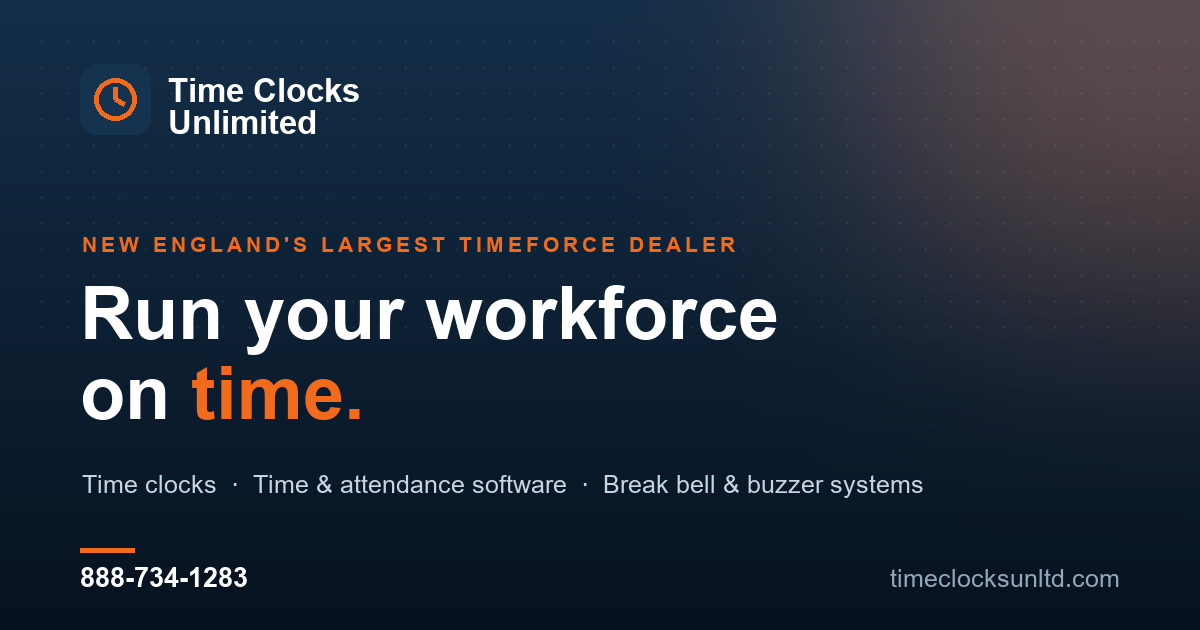
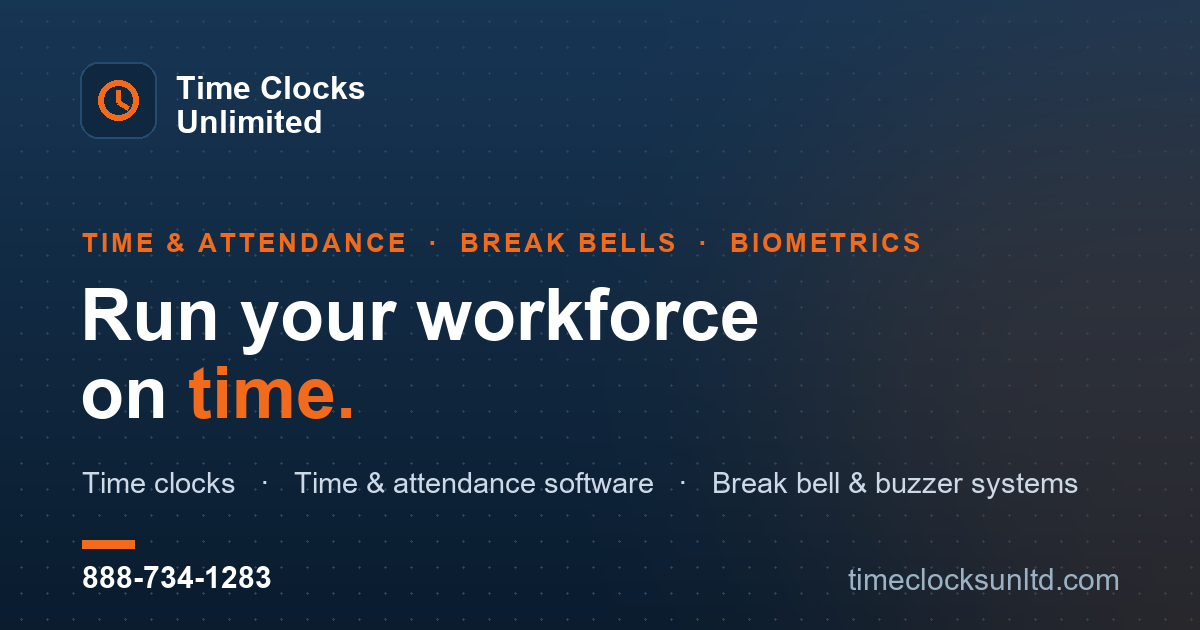
Owner-requested content changes: remove 'TimeForce dealer in New England' claim sitewide (meta/OG/schema/chips/metrics/footer/llms.txt/og-image); hide Wireless category from nav, homepage grid & footer; relabel hero CTA to Shop Time & Attendance; add Shop IP Paging hero button; brand strip: drop Qqe

diff --git a/index.html b/index.html
@@ -4,7 +4,7 @@
 <meta charset="UTF-8" />
 <meta name="viewport" content="width=device-width, initial-scale=1" />
 <title>Time Clocks Unlimited, LLC — Time &amp; Attendance, Break Bells &amp; Workforce Management</title>
-<meta name="description" content="New England's largest TimeForce dealer. Time clocks, time & attendance software, break bell & buzzer systems, biometric & facial-recognition solutions. Personal service direct from the owner. Call 888-734-1283." />
+<meta name="description" content="Time clocks, time & attendance software, break bell & buzzer systems, biometric & facial-recognition solutions. Personal service direct from the owner. Call 888-734-1283." />
 <meta name="robots" content="index, follow" />
 <meta name="theme-color" content="#0a1c2e" />
 <link rel="canonical" href="https://chrisp81588.github.io/timeclocks-unlimited-demo/" />
@@ -12,7 +12,7 @@
 <meta property="og:type" content="website" />
 <meta property="og:site_name" content="Time Clocks Unlimited, LLC" />
 <meta property="og:title" content="Time Clocks Unlimited — Time & Attendance, Time Clocks & Break Bell Systems" />
-<meta property="og:description" content="New England's largest TimeForce dealer. Time clocks, software, break bells & biometrics — with personal service direct from the owner." />
+<meta property="og:description" content="Time clocks, software, break bells & biometrics — with personal service direct from the owner." />
 <meta property="og:url" content="https://chrisp81588.github.io/timeclocks-unlimited-demo/" />
 <meta property="og:image" content="https://chrisp81588.github.io/timeclocks-unlimited-demo/og-image.png" />
 <meta property="og:image:width" content="1200" /><meta property="og:image:height" content="630" />
@@ -39,7 +39,7 @@
     "addressCountry": "US"
   },
   "areaServed": ["US", "CA"],
-  "description": "New England's largest TimeForce dealer — time clocks, time & attendance software, break bell & buzzer systems, biometric clocks, date stamps and supplies."
+  "description": "Time clocks, time & attendance software, break bell & buzzer systems, biometric clocks, date stamps and supplies — personal service direct from the owner."
 }
 </script>
 <script type="application/ld+json">
@@ -146,14 +146,15 @@
       <h1>Run your workforce on <span class="hl">time</span>, down to the second.</h1>
       <p class="lead">Time clocks · break bells &amp; buzzers · IP paging · biometric clocks · date stamps · ribbons &amp; supplies. New England's one-stop shop to keep payroll accurate and your floor on schedule — shipped fast, with service direct from the owner.</p>
       <div class="hero-cta">
-        <a href="category.html?cat=software" class="btn btn-primary">Shop Time Clocks <svg width="16" height="16" viewBox="0 0 24 24" fill="none" stroke="currentColor" stroke-width="2.2"><path d="M5 12h14M13 6l6 6-6 6"/></svg></a>
+        <a href="category.html?cat=software" class="btn btn-primary">Shop Time &amp; Attendance <svg width="16" height="16" viewBox="0 0 24 24" fill="none" stroke="currentColor" stroke-width="2.2"><path d="M5 12h14M13 6l6 6-6 6"/></svg></a>
         <a href="category.html?cat=time-clocks" class="btn btn-primary">Shop Amano Clocks <svg width="16" height="16" viewBox="0 0 24 24" fill="none" stroke="currentColor" stroke-width="2.2"><path d="M5 12h14M13 6l6 6-6 6"/></svg></a>
         <a href="category.html?cat=date-stamps" class="btn btn-primary">Shop Date Stamps <svg width="16" height="16" viewBox="0 0 24 24" fill="none" stroke="currentColor" stroke-width="2.2"><path d="M5 12h14M13 6l6 6-6 6"/></svg></a>
         <a href="category.html?cat=break-bells" class="btn btn-primary">Shop Break Bells <svg width="16" height="16" viewBox="0 0 24 24" fill="none" stroke="currentColor" stroke-width="2.2"><path d="M5 12h14M13 6l6 6-6 6"/></svg></a>
+        <a href="category.html?cat=netbell-pa" class="btn btn-primary">Shop IP Paging <svg width="16" height="16" viewBox="0 0 24 24" fill="none" stroke="currentColor" stroke-width="2.2"><path d="M5 12h14M13 6l6 6-6 6"/></svg></a>
         <a href="#contact" class="btn btn-ghost">Talk to a Specialist</a>
       </div>
       <div class="trust-chips">
-        <span class="chip"><svg width="15" height="15" viewBox="0 0 24 24" fill="none" stroke="currentColor" stroke-width="2.2"><path d="M20 6 9 17l-5-5"/></svg> Largest TimeForce dealer in New England</span>
+        <span class="chip"><svg width="15" height="15" viewBox="0 0 24 24" fill="none" stroke="currentColor" stroke-width="2.2"><path d="M20 6 9 17l-5-5"/></svg> We service what we sell</span>
         <span class="chip"><svg width="15" height="15" viewBox="0 0 24 24" fill="none" stroke="currentColor" stroke-width="2.2"><path d="M12 2 4 5v6c0 5 3.5 8 8 11 4.5-3 8-6 8-11V5z"/></svg> Biometric &amp; facial-recognition ready</span>
         <span class="chip"><svg width="15" height="15" viewBox="0 0 24 24" fill="none" stroke="currentColor" stroke-width="2.2"><path d="M3 12h4l3 8 4-16 3 8h4"/></svg> Integrates with HR &amp; Payroll</span>
       </div>
@@ -169,12 +170,12 @@
 <!-- Brand strip -->
 <div class="brands"><div class="wrap">
   <span class="lbl">Authorized dealer &amp; integration partner</span>
-  <span class="brand">Linortek</span><span class="brand">Amano</span><span class="brand">Widmer</span><span class="brand">uAttend</span><span class="brand">Qqest</span><span class="brand">Velocity</span>
+  <span class="brand">Linortek</span><span class="brand">Amano</span><span class="brand">Widmer</span><span class="brand">uAttend</span><span class="brand">ATS Applied Technical Systems</span>
 </div></div>
 
 <!-- Metrics -->
 <div class="metrics"><div class="wrap">
-  <div class="metric reveal"><b>#1</b><span>TimeForce dealer in New England</span></div>
+  <div class="metric reveal"><b>5</b><span>Brands sold &amp; serviced</span></div>
   <div class="metric reveal"><b>60<span class="u">+</span></b><span>Products in stock &amp; shipping</span></div>
   <div class="metric reveal"><b>US <span class="u">&amp;</span> CA</b><span>Countries we ship to</span></div>
   <div class="metric reveal"><b>100<span class="u">%</span></b><span>Owner-direct support line</span></div>
@@ -246,8 +247,8 @@
     </a>`;
   }).join('');
 
-  // categories grid
-  document.getElementById('catGrid').innerHTML = CATEGORIES.map(c=>`
+  // categories grid (hidden categories excluded)
+  document.getElementById('catGrid').innerHTML = CATEGORIES.filter(c=>!c.hidden).map(c=>`
     <a class="cat-card reveal" href="category.html?cat=${c.id}">
       <span class="ic" style="background:linear-gradient(135deg,${c.color},${c.color}cc)">${icon(c.icon,'#fff').replace('width="24" height="24"','width="26" height="26"')}</span>
       <h3>${c.name}</h3>

diff --git a/site.js b/site.js
@@ -53,8 +53,9 @@ function icon(name, stroke){
 }
 
 const PHONE = '888-734-1283';
-const navItems = (CATEGORIES||[]).map(c=>`<a href="category.html?cat=${c.id}">${c.nav||c.short||c.name}</a>`).join('');
-const mmItems = (CATEGORIES||[]).map(c=>`<a class="mm-link" href="category.html?cat=${c.id}">${c.name}</a>`).join('');
+const NAV_CATS = (CATEGORIES||[]).filter(c=>!c.hidden);
+const navItems = NAV_CATS.map(c=>`<a href="category.html?cat=${c.id}">${c.nav||c.short||c.name}</a>`).join('');
+const mmItems = NAV_CATS.map(c=>`<a class="mm-link" href="category.html?cat=${c.id}">${c.name}</a>`).join('');
 
 function logoMark(size){return `<span class="mark" aria-hidden="true"><svg width="${size||24}" height="${size||24}" viewBox="0 0 24 24" fill="none" stroke="#f26a1b" stroke-width="2.2" stroke-linecap="round"><circle cx="12" cy="12" r="9"/><path d="M12 7v5l3.5 2"/></svg></span>`;}
 
@@ -85,7 +86,7 @@ window.cardHTML = function(p){
 const HEADER = `
 <div class="utility"><div class="wrap">
   <div class="u-left">
-    <span class="u-badge"><span class="dot"></span> Authorized dealer · Amano · TimeForce · Linortek &amp; more</span>
+    <span class="u-badge"><span class="dot"></span> Authorized dealer · Amano · Widmer · Linortek &amp; more</span>
     <span class="hide-sm" style="color:#cbd5e1;white-space:nowrap">We ship UPS to the US &amp; Canada</span>
   </div>
   <div class="u-right">
@@ -133,13 +134,13 @@ const FOOTER = `
   <div class="foot-grid">
     <div class="foot-brand">
       <a class="logo" href="index.html">${logoMark(22)}<span>Time Clocks Unlimited</span></a>
-      <p>New England's largest TimeForce dealer — time &amp; attendance systems, break bells, biometrics and the personal service to back them.</p>
+      <p>Time &amp; attendance systems, break bells, biometrics and the personal service to back them — family-run and owner-direct.</p>
       <div class="socials">
         <a href="#" aria-label="Facebook"><svg width="18" height="18" viewBox="0 0 24 24" fill="currentColor"><path d="M14 9h3V6h-3c-2 0-3 1.3-3 3v2H8v3h3v7h3v-7h2.5l.5-3H14V9.3c0-.2.2-.3.5-.3z"/></svg></a>
         <a href="#" aria-label="Instagram"><svg width="18" height="18" viewBox="0 0 24 24" fill="none" stroke="currentColor" stroke-width="2"><rect x="3" y="3" width="18" height="18" rx="5"/><circle cx="12" cy="12" r="4"/><circle cx="17.5" cy="6.5" r="1" fill="currentColor" stroke="none"/></svg></a>
       </div>
     </div>
-    <div><h5>Categories</h5><ul>${(CATEGORIES||[]).map(c=>`<li><a href="category.html?cat=${c.id}">${c.name}</a></li>`).join('')}</ul></div>
+    <div><h5>Categories</h5><ul>${NAV_CATS.map(c=>`<li><a href="category.html?cat=${c.id}">${c.name}</a></li>`).join('')}</ul></div>
     <div><h5>Company</h5><ul>
       <li><a href="index.html#why">About Us</a></li><li><a href="index.html#contact">Contact Us</a></li>
       <li><a href="shipping.html">Shipping &amp; Deliveries</a></li><li><a href="returns.html">Returns &amp; Exchanges</a></li><li><a href="faq.html">Site Help / FAQ</a></li>
@@ -150,7 +151,7 @@ const FOOTER = `
       <a href="mailto:info@timeclocksunltd.com">${icon('mail')} info@timeclocksunltd.com</a>
     </div></div>
   </div>
-  <div class="copy"><span>© 2026 Time Clocks Unlimited, LLC. All rights reserved.</span><span>New England's largest TimeForce dealer</span></div>
+  <div class="copy"><span>© 2026 Time Clocks Unlimited, LLC. All rights reserved.</span><span>We service what we sell</span></div>
 </div></footer>`;
 
 document.addEventListener('DOMContentLoaded', ()=>{

diff --git a/catalog.js b/catalog.js
@@ -82,7 +82,8 @@ const CATEGORIES = [
     id: 'wireless', name: 'Wireless Break Systems', short: 'Wireless Bells & Paging', nav: 'Wireless',
     tagline: 'Cordless break bells, pagers & horn speakers',
     blurb: 'Durable, compact wireless break-bell and paging systems with backup battery — add a speaker anywhere without running wire. Indoor and outdoor units work as pagers, bells, sirens, strobe lights and horn speakers, operating off relay antenna signals.',
-    icon: 'speaker', color: '#0d9488', empty: true
+    icon: 'speaker', color: '#0d9488', empty: true,
+    hidden: true /* removed from nav, homepage grid & footer per owner (2026-07): no products yet; page stays reachable by direct link */
   }
 ];
 
